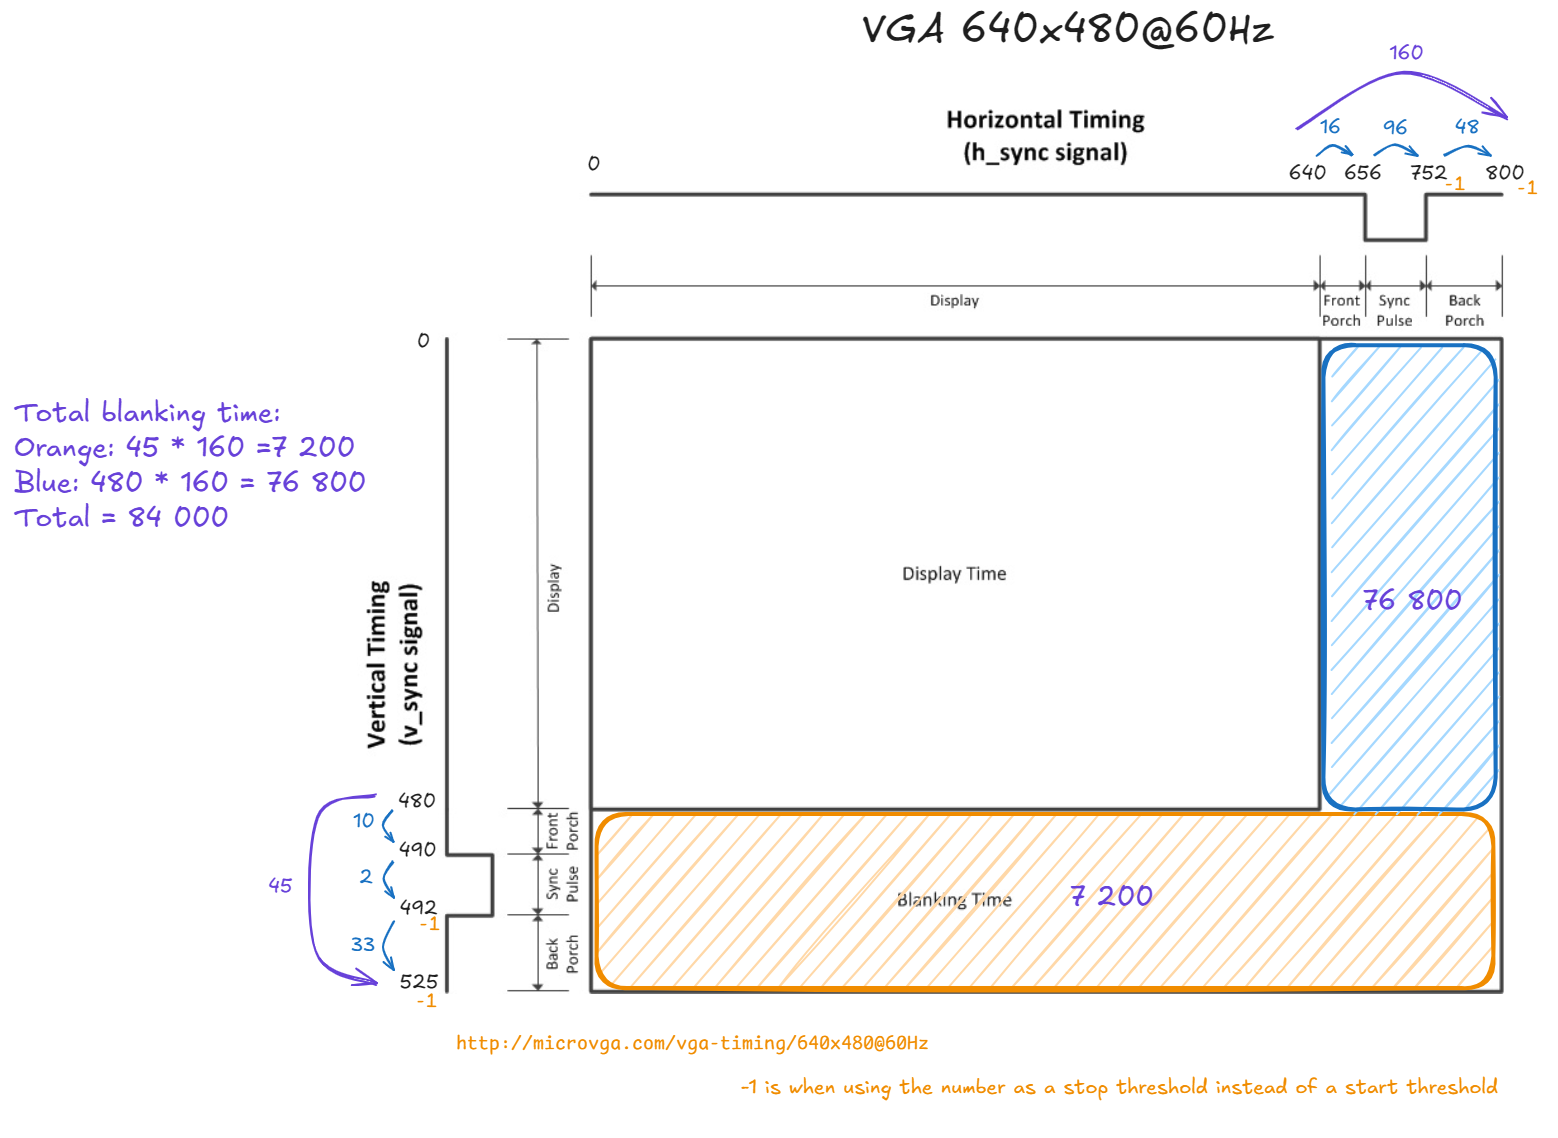
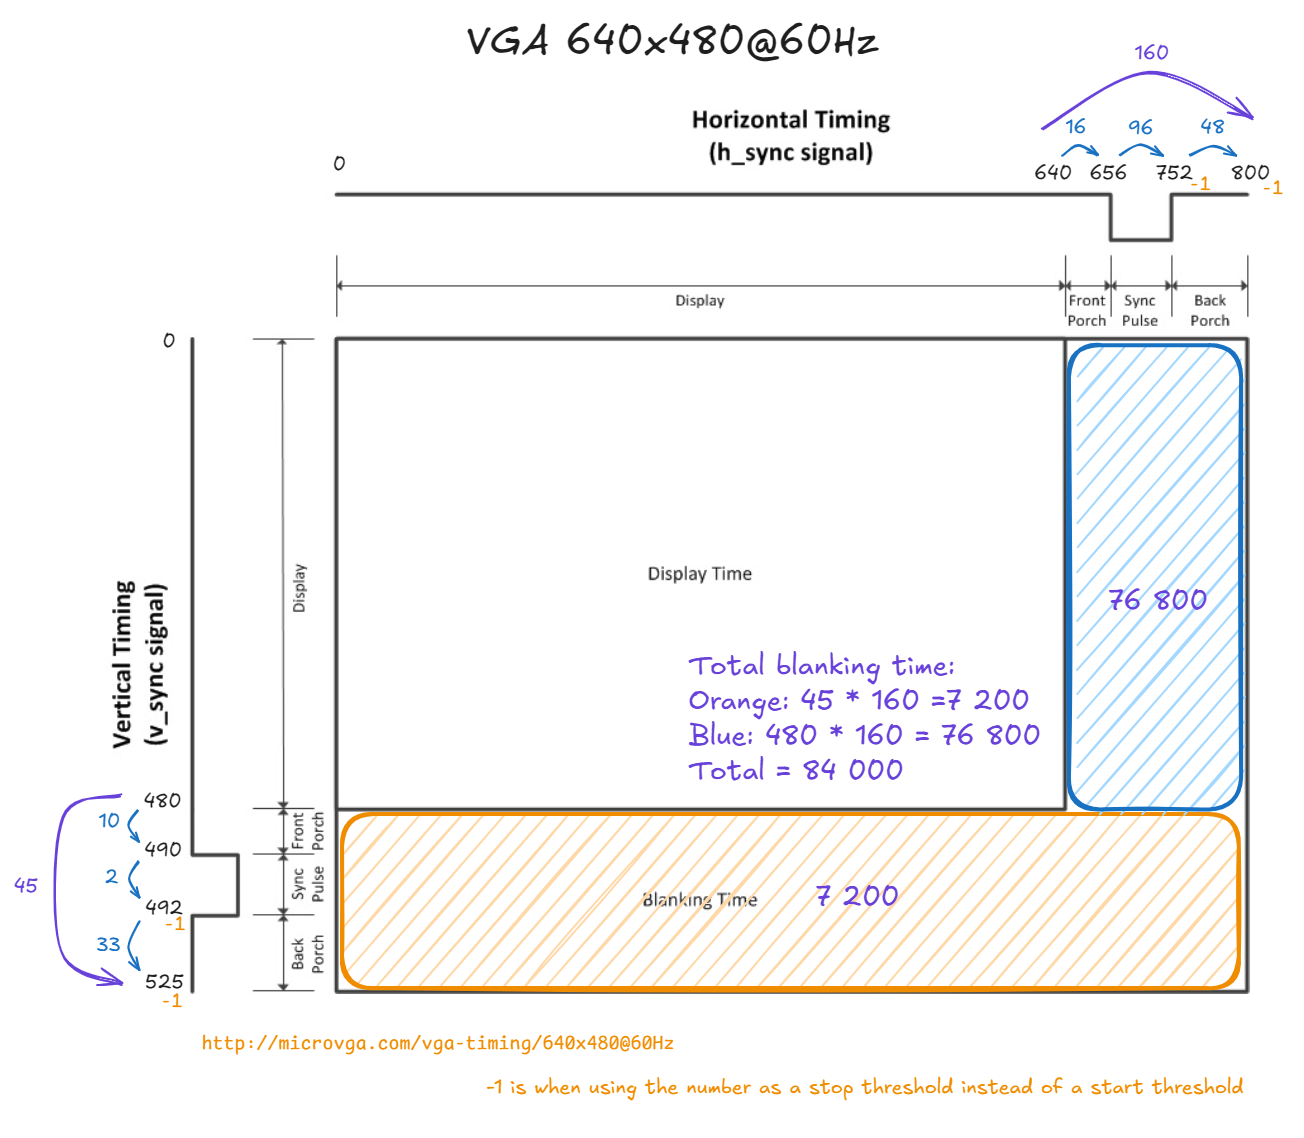
update vga docs

diff --git a/docs/info.md b/docs/info.md
@@ -50,9 +50,9 @@ The `vga_hvsync_generator` not only generates `hsync` and `vsync` signals, but a
 
 The `vga_get_cell_idx` module calculates the coordinates of the current cell in the grid, based of the position of the pixel on the screen.
 
-The index that `vga_get_cell_idx` generates, is used in the `vga_get_cell_type` module to determine the cell type. The cell type is either dead, alive or the cursor. The cursor is only shown when the user is editing the grid and thus when the simulation is not running (`simulation_running`). If that is the case, the cursor position will take precendent over the cell type pulled from memory (board0).
+The index that `vga_get_cell_idx` generates, is used in the `vga_get_cell_type` module to determine the cell type. The cell type is either dead, alive or the cursor. The cursor is only shown when the user is editing the grid (`cursor_on`). If that is the case, the cursor position will take precendent over the cell type pulled from memory (board0).
 
-Based on the cell type, `vga_get_pixel_color` calculates the correct pixel color.
+Based on the cell type and whether the simulation is running, `vga_get_pixel_color` calculates the correct pixel color.
 
 | Description        | cell_type (binary) | R   | G   | B   | Color |
 | ------------------ | ------------------ | --- | --- | --- | ----- |
@@ -63,7 +63,7 @@ Based on the cell type, `vga_get_pixel_color` calculates the correct pixel color
 
 When testing, sylefeb's _[TinyTapeout VGA trace visualizer](https://github.com/sylefeb/tt-vgaviz)_ proved to be very useful in visualising the VGA output from an `.fst` file.
 
-The repository _[cocotb-vga](https://github.com/kul-tt2026/cocotb-vga)_ from kul-tt2026 also proved invaluable when writing test benches.
+The repository _[cocotb-vga](https://github.com/kul-tt2026/cocotb-vga)_ from kul-tt2026 also proved invaluable when writing test benches for the entire project to visualise the VGA screen.
 
 The VGA playground from Tiny Tapeout was incredible, because it could simulate in seconds what cocotb-vga took minutes. _[Click here for the link](https://vga-playground.com/?repo=https://github.com/kul-tt2026/ttsky-group01-conway&ref=vga-playground)_.
 
